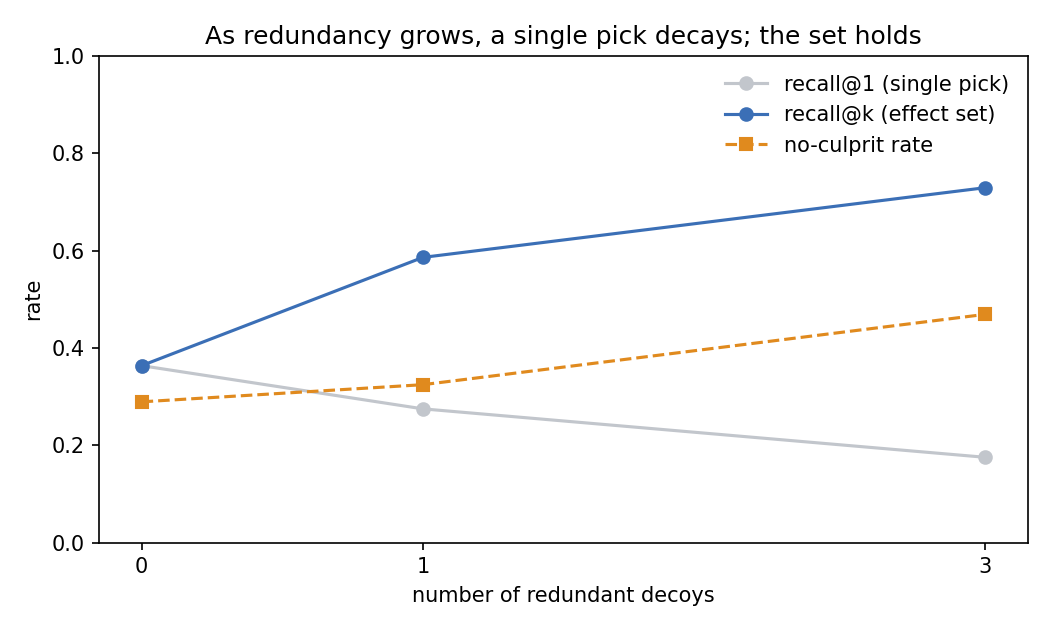
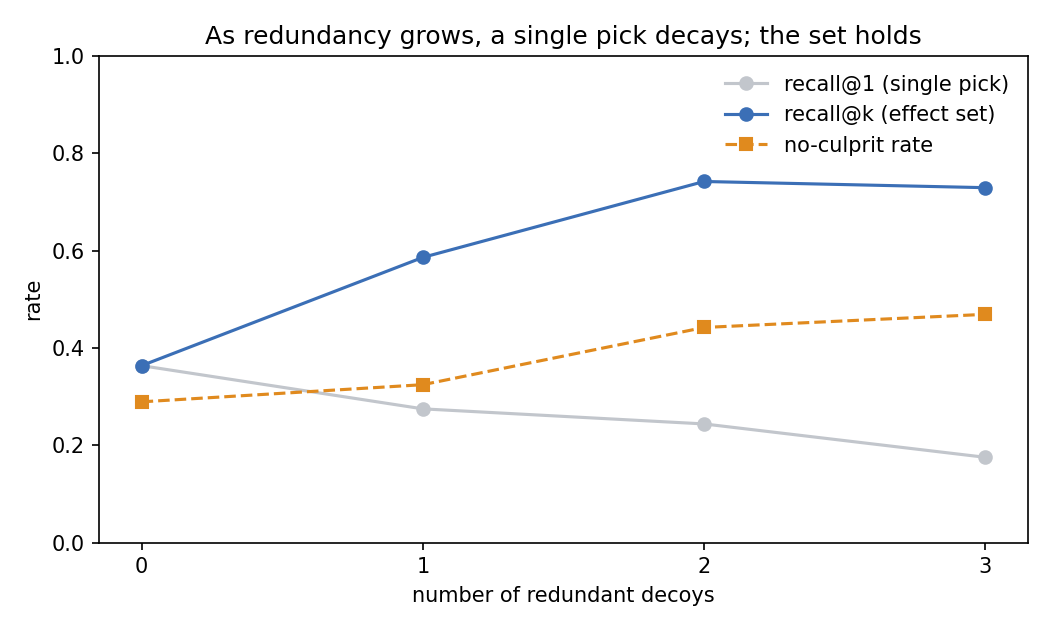
results: complete dose-response curve with n=2 point (fig7)

diff --git a/paper/claim_evidence.md b/paper/claim_evidence.md
@@ -37,10 +37,10 @@ Artifacts: `results_tables.md` (Tables 1–3), `results_ci.md` (no-culprit CIs),
   the effect-set recovers ~2× more. → use set-valued attribution.
 - **Evidence:** **Fig 2**; Table 2 (recall@1 vs recall@k).
 - **Numbers:** all **6** hard-traps cells: recall@1 **0.26–0.37** → recall@k **0.57–0.75** (~2×).
-- **Dose-response (Fig 7; 0/1/3 redundant decoys, HotpotQA/qwen):** as redundancy grows, recall@1
-  (single pick) decays **0.36 → 0.27 → 0.18** (tracking the top-1 ≤ 1/m bound) while recall@k (set)
-  holds/grows **0.36 → 0.59 → 0.73**, and the no-culprit rate climbs **29 → 32 → 47%**. A clean
-  controlled curve only a constructed benchmark can produce. (n=2 point pending.)
+- **Dose-response (Fig 7; 0/1/2/3 redundant decoys, HotpotQA/qwen):** as redundancy grows, recall@1
+  (single pick) decays monotonically **0.36 → 0.27 → 0.24 → 0.18** (tracking the top-1 ≤ 1/m bound)
+  while recall@k (set) holds/grows **0.36 → 0.59 → 0.74 → 0.73**, and the no-culprit rate climbs
+  **29 → 32 → 44 → 47%**. A clean controlled 4-point curve only a constructed benchmark can produce.
 
 ## C2 — REMEDY: calibrated selective attribution (the method we build)
 - **Claim:** a calibrated confidence signal lets attribution **abstain** when no single culprit is
